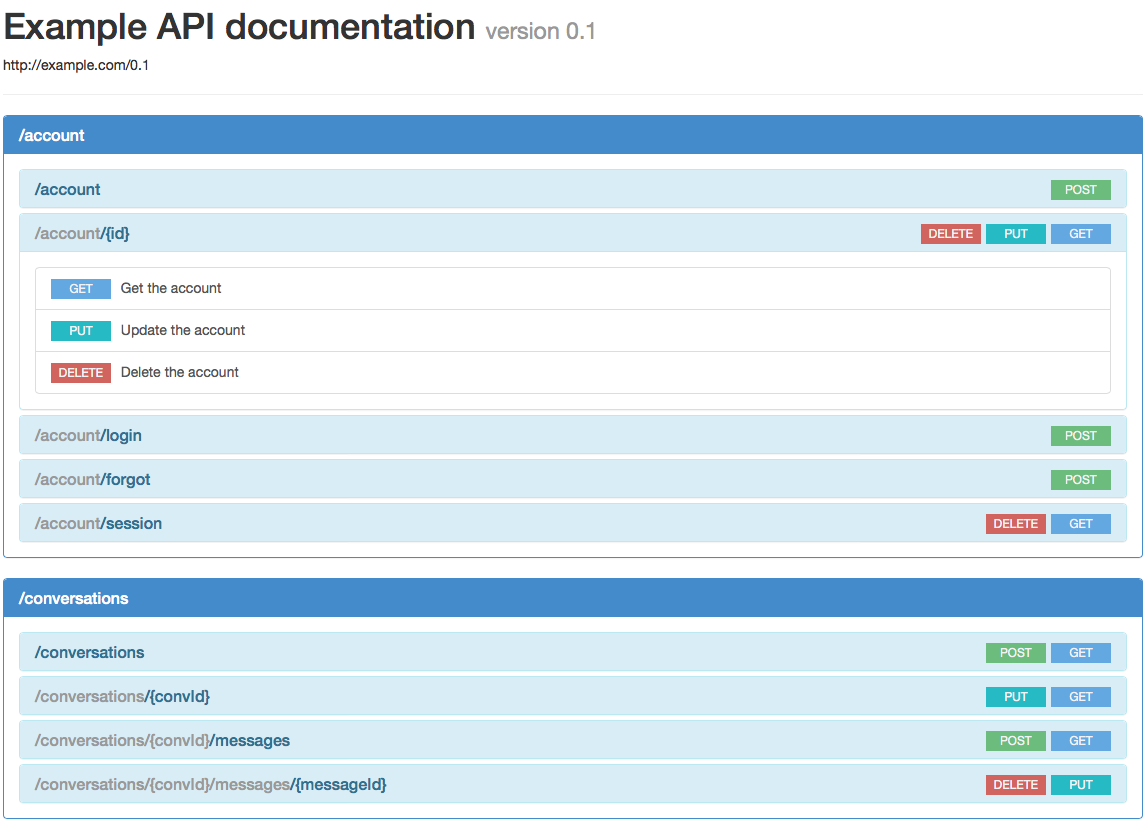
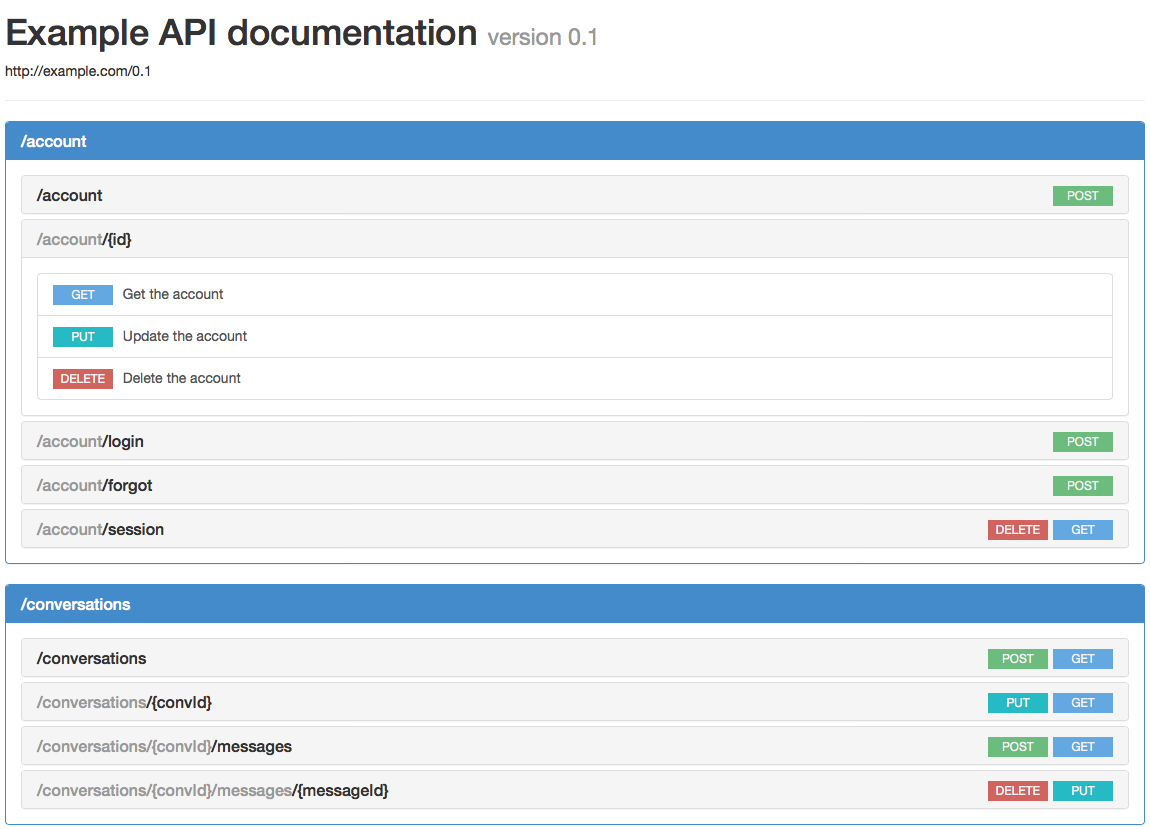
Fixed some html bugs

diff --git a/example.html b/example.html
@@ -13,7 +13,7 @@
             float: none;
             margin-right: 6px;
         }
-        .panel-title > .badge {
+        .panel-title > .block > .badge {
             float: right;
             margin-left: 5px;
         }
@@ -24,6 +24,12 @@
             font-weight: normal;
             color: #f3f3f6;
             line-height: normal;
+        }
+        .block .badge {
+            visibility: hidden;
+        }
+        .block.collapsed .badge {
+            visibility: visible;
         }
         .badge_get {
             background-color: #63a8e2;
@@ -62,13 +68,13 @@
                 <div class="panel-body">
 
                     <div class="panel-group" id="accordion__account">
-                        <div class="panel panel-info">
+                        <div class="panel panel-default">
                             <div class="panel-heading">
                                 <h4 class="panel-title">
-                                    
-                                        <span class="badge badge_post">post</span>
-                                    
-                                    <a class="block" data-toggle="collapse" data-parent="#accordion__account" href="#_account">
+                                    <a class="block collapsed" data-toggle="collapse" data-parent="#accordion__account" href="#_account">
+                                        
+                                            <span class="badge badge_post">post</span>
+                                        
                                         /account
                                     </a>
                                 </h4>
@@ -85,17 +91,17 @@
                         </div>
 
                         
-    <div class="panel panel-info">
+    <div class="panel panel-default">
         <div class="panel-heading">
             <h4 class="panel-title">
-                
-                    <span class="badge badge_get">get</span>
-                
-                    <span class="badge badge_put">put</span>
-                
-                    <span class="badge badge_delete">delete</span>
-                
-                <a class="block" data-toggle="collapse" data-parent="#accordion__account" href="#_account__id_">
+                <a class="block collapsed" data-toggle="collapse" data-parent="#accordion__account" href="#_account__id_">
+                    
+                        <span class="badge badge_get">get</span>
+                    
+                        <span class="badge badge_put">put</span>
+                    
+                        <span class="badge badge_delete">delete</span>
+                    
                     <span class="parent">/account</span>/{id}
                 </a>
             </h4>
@@ -118,13 +124,13 @@
     
 
 
-    <div class="panel panel-info">
+    <div class="panel panel-default">
         <div class="panel-heading">
             <h4 class="panel-title">
-                
-                    <span class="badge badge_post">post</span>
-                
-                <a class="block" data-toggle="collapse" data-parent="#accordion__account" href="#_account_login">
+                <a class="block collapsed" data-toggle="collapse" data-parent="#accordion__account" href="#_account_login">
+                    
+                        <span class="badge badge_post">post</span>
+                    
                     <span class="parent">/account</span>/login
                 </a>
             </h4>
@@ -143,13 +149,13 @@
     
 
 
-    <div class="panel panel-info">
+    <div class="panel panel-default">
         <div class="panel-heading">
             <h4 class="panel-title">
-                
-                    <span class="badge badge_post">post</span>
-                
-                <a class="block" data-toggle="collapse" data-parent="#accordion__account" href="#_account_forgot">
+                <a class="block collapsed" data-toggle="collapse" data-parent="#accordion__account" href="#_account_forgot">
+                    
+                        <span class="badge badge_post">post</span>
+                    
                     <span class="parent">/account</span>/forgot
                 </a>
             </h4>
@@ -168,15 +174,15 @@
     
 
 
-    <div class="panel panel-info">
+    <div class="panel panel-default">
         <div class="panel-heading">
             <h4 class="panel-title">
-                
-                    <span class="badge badge_get">get</span>
-                
-                    <span class="badge badge_delete">delete</span>
-                
-                <a class="block" data-toggle="collapse" data-parent="#accordion__account" href="#_account_session">
+                <a class="block collapsed" data-toggle="collapse" data-parent="#accordion__account" href="#_account_session">
+                    
+                        <span class="badge badge_get">get</span>
+                    
+                        <span class="badge badge_delete">delete</span>
+                    
                     <span class="parent">/account</span>/session
                 </a>
             </h4>
@@ -210,16 +216,16 @@
 
                 <div class="panel-body">
 
-                    <div class="panel-group" id="accordion__account">
-                        <div class="panel panel-info">
+                    <div class="panel-group" id="accordion__conversations">
+                        <div class="panel panel-default">
                             <div class="panel-heading">
                                 <h4 class="panel-title">
-                                    
-                                        <span class="badge badge_get">get</span>
-                                    
-                                        <span class="badge badge_post">post</span>
-                                    
-                                    <a class="block" data-toggle="collapse" data-parent="#accordion__account" href="#_conversations">
+                                    <a class="block collapsed" data-toggle="collapse" data-parent="#accordion__conversations" href="#_conversations">
+                                        
+                                            <span class="badge badge_get">get</span>
+                                        
+                                            <span class="badge badge_post">post</span>
+                                        
                                         /conversations
                                     </a>
                                 </h4>
@@ -238,15 +244,15 @@
                         </div>
 
                         
-    <div class="panel panel-info">
+    <div class="panel panel-default">
         <div class="panel-heading">
             <h4 class="panel-title">
-                
-                    <span class="badge badge_get">get</span>
-                
-                    <span class="badge badge_put">put</span>
-                
-                <a class="block" data-toggle="collapse" data-parent="#accordion__account" href="#_conversations__convId_">
+                <a class="block collapsed" data-toggle="collapse" data-parent="#accordion__conversations" href="#_conversations__convId_">
+                    
+                        <span class="badge badge_get">get</span>
+                    
+                        <span class="badge badge_put">put</span>
+                    
                     <span class="parent">/conversations</span>/{convId}
                 </a>
             </h4>
@@ -265,15 +271,15 @@
     </div>
 
     
-    <div class="panel panel-info">
+    <div class="panel panel-default">
         <div class="panel-heading">
             <h4 class="panel-title">
-                
-                    <span class="badge badge_get">get</span>
-                
-                    <span class="badge badge_post">post</span>
-                
-                <a class="block" data-toggle="collapse" data-parent="#accordion__account" href="#_conversations__convId__messages">
+                <a class="block collapsed" data-toggle="collapse" data-parent="#accordion__conversations" href="#_conversations__convId__messages">
+                    
+                        <span class="badge badge_get">get</span>
+                    
+                        <span class="badge badge_post">post</span>
+                    
                     <span class="parent">/conversations/{convId}</span>/messages
                 </a>
             </h4>
@@ -292,15 +298,15 @@
     </div>
 
     
-    <div class="panel panel-info">
+    <div class="panel panel-default">
         <div class="panel-heading">
             <h4 class="panel-title">
-                
-                    <span class="badge badge_put">put</span>
-                
-                    <span class="badge badge_delete">delete</span>
-                
-                <a class="block" data-toggle="collapse" data-parent="#accordion__account" href="#_conversations__convId__messages__messageId_">
+                <a class="block collapsed" data-toggle="collapse" data-parent="#accordion__conversations" href="#_conversations__convId__messages__messageId_">
+                    
+                        <span class="badge badge_put">put</span>
+                    
+                        <span class="badge badge_delete">delete</span>
+                    
                     <span class="parent">/conversations/{convId}/messages</span>/{messageId}
                 </a>
             </h4>
@@ -338,16 +344,16 @@
 
                 <div class="panel-body">
 
-                    <div class="panel-group" id="accordion__account">
-                        <div class="panel panel-info">
+                    <div class="panel-group" id="accordion__users">
+                        <div class="panel panel-default">
                             <div class="panel-heading">
                                 <h4 class="panel-title">
-                                    
-                                        <span class="badge badge_get">get</span>
-                                    
-                                        <span class="badge badge_post">post</span>
-                                    
-                                    <a class="block" data-toggle="collapse" data-parent="#accordion__account" href="#_users">
+                                    <a class="block collapsed" data-toggle="collapse" data-parent="#accordion__users" href="#_users">
+                                        
+                                            <span class="badge badge_get">get</span>
+                                        
+                                            <span class="badge badge_post">post</span>
+                                        
                                         /users
                                     </a>
                                 </h4>
@@ -366,17 +372,17 @@
                         </div>
 
                         
-    <div class="panel panel-info">
+    <div class="panel panel-default">
         <div class="panel-heading">
             <h4 class="panel-title">
-                
-                    <span class="badge badge_get">get</span>
-                
-                    <span class="badge badge_put">put</span>
-                
-                    <span class="badge badge_delete">delete</span>
-                
-                <a class="block" data-toggle="collapse" data-parent="#accordion__account" href="#_users__userId_">
+                <a class="block collapsed" data-toggle="collapse" data-parent="#accordion__users" href="#_users__userId_">
+                    
+                        <span class="badge badge_get">get</span>
+                    
+                        <span class="badge badge_put">put</span>
+                    
+                        <span class="badge badge_delete">delete</span>
+                    
                     <span class="parent">/users</span>/{userId}
                 </a>
             </h4>
@@ -412,16 +418,16 @@
 
                 <div class="panel-body">
 
-                    <div class="panel-group" id="accordion__account">
-                        <div class="panel panel-info">
+                    <div class="panel-group" id="accordion__groups">
+                        <div class="panel panel-default">
                             <div class="panel-heading">
                                 <h4 class="panel-title">
-                                    
-                                        <span class="badge badge_get">get</span>
-                                    
-                                        <span class="badge badge_post">post</span>
-                                    
-                                    <a class="block" data-toggle="collapse" data-parent="#accordion__account" href="#_groups">
+                                    <a class="block collapsed" data-toggle="collapse" data-parent="#accordion__groups" href="#_groups">
+                                        
+                                            <span class="badge badge_get">get</span>
+                                        
+                                            <span class="badge badge_post">post</span>
+                                        
                                         /groups
                                     </a>
                                 </h4>
@@ -440,17 +446,17 @@
                         </div>
 
                         
-    <div class="panel panel-info">
+    <div class="panel panel-default">
         <div class="panel-heading">
             <h4 class="panel-title">
-                
-                    <span class="badge badge_get">get</span>
-                
-                    <span class="badge badge_put">put</span>
-                
-                    <span class="badge badge_delete">delete</span>
-                
-                <a class="block" data-toggle="collapse" data-parent="#accordion__account" href="#_groups__groupId_">
+                <a class="block collapsed" data-toggle="collapse" data-parent="#accordion__groups" href="#_groups__groupId_">
+                    
+                        <span class="badge badge_get">get</span>
+                    
+                        <span class="badge badge_put">put</span>
+                    
+                        <span class="badge badge_delete">delete</span>
+                    
                     <span class="parent">/groups</span>/{groupId}
                 </a>
             </h4>
@@ -471,13 +477,13 @@
     </div>
 
     
-    <div class="panel panel-info">
+    <div class="panel panel-default">
         <div class="panel-heading">
             <h4 class="panel-title">
-                
-                    <span class="badge badge_post">post</span>
-                
-                <a class="block" data-toggle="collapse" data-parent="#accordion__account" href="#_groups__groupId__users">
+                <a class="block collapsed" data-toggle="collapse" data-parent="#accordion__groups" href="#_groups__groupId__users">
+                    
+                        <span class="badge badge_post">post</span>
+                    
                     <span class="parent">/groups/{groupId}</span>/users
                 </a>
             </h4>
@@ -494,13 +500,13 @@
     </div>
 
     
-    <div class="panel panel-info">
+    <div class="panel panel-default">
         <div class="panel-heading">
             <h4 class="panel-title">
-                
-                    <span class="badge badge_delete">delete</span>
-                
-                <a class="block" data-toggle="collapse" data-parent="#accordion__account" href="#_groups__groupId__users__userId_">
+                <a class="block collapsed" data-toggle="collapse" data-parent="#accordion__groups" href="#_groups__groupId__users__userId_">
+                    
+                        <span class="badge badge_delete">delete</span>
+                    
                     <span class="parent">/groups/{groupId}/users</span>/{userId}
                 </a>
             </h4>

diff --git a/lib/raml2html.js b/lib/raml2html.js
@@ -33,10 +33,10 @@ function addParentUrls(ramlObj, parentUrl, rootId) {
         resource.uniqueId = makeUniqueId(resource);
 
         if (!rootId.length) {
-            rootId = slugify(resource.relativeUri);
+            resource.rootId = slugify(resource.relativeUri);
+        } else {
+            resource.rootId = rootId;
         }
-
-        resource.rootId = rootId;
 
 		addParentUrls(resource, resource.parentUrl + resource.relativeUri, resource.rootId);
 	}
